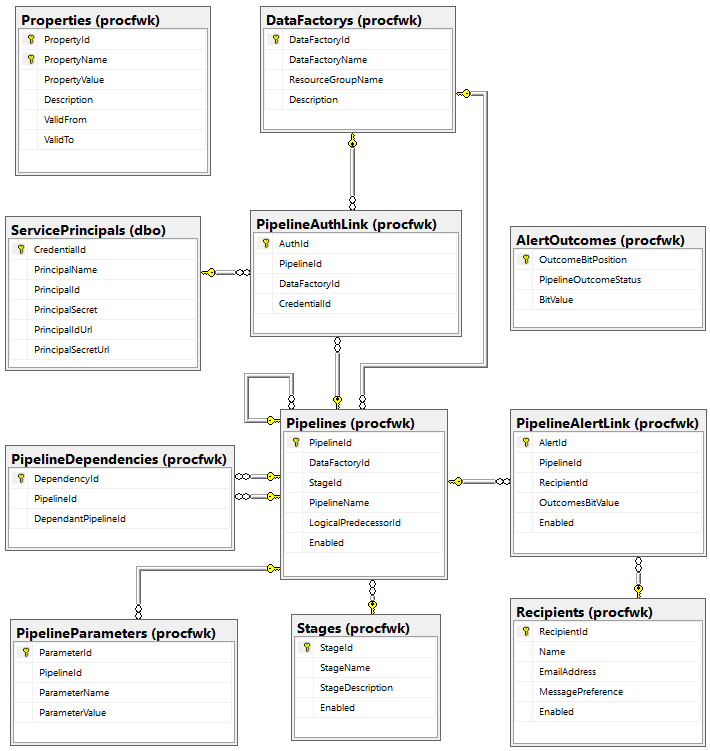
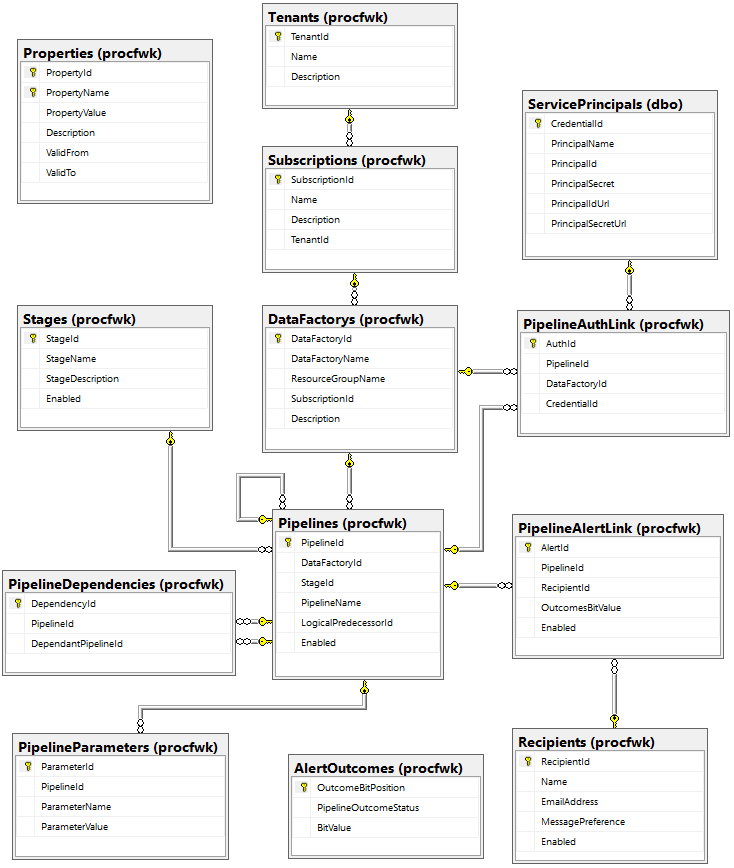
Various updates

Changed region(s): [[0.0, 0.0, 1.0, 1.0], [0.0, 0.0, 0.3099, 0.245], [0.9606, 0.4288, 1.0, 0.49]]

diff --git a/docs/pipelines.md b/docs/pipelines.md
@@ -10,7 +10,7 @@ ___
 __Role:__ Optional level platform setup.
 
 The grandparent level within the ADFprocfwk solution is completely optional. It is expected that here higher level platform operations are performed to make the environment ready before the core framework is triggered. For example, scaling up compute resources.
-## Parent
+## Parent - Framework Executor
 ![Parent Pipeline](/ADF.procfwk/parent.png){:style="float: right;margin-left: 15px;margin-bottom: 10px;"}
 __Role:__ Execution run wrapper and execution stage iterator.
 
@@ -18,19 +18,16 @@ The parent pipeline is primarily used to setup and/or cleanup the next execution
 
 As a secondary function at this level the parent pipeline initiates the first __ForEach__ activity used to _sequentitally_ iterate over [Execution Stages](/ADF.procfwk/executionstages). For each iteration the framework will also check for any workers that may have blocked processing due to pipeline failures.
 
-Finally, the parent is responsible for getting/setting the following metadata to be used in downstream activities:
-* Local Execution ID
-* Tenant ID
-* Subscription ID
+Finally, the parent is responsible for getting/setting of the Local Execution ID which is then used through all downstream pipelines when making updates to the current execution [table](/ADF.procfwk/tables).
 
-## Child
+## Child - Stage Executor
 ![Child Pipeline](/ADF.procfwk/child.png){:style="float: right;margin-left: 15px;margin-bottom: 10px;"}
 __Role:__ Scale out triggering of worker pipelines within the execution stage.
 
 The child pipeline is called once per execution stage and performs the second level __ForEach__ activity, this time used to trigger all worker pipelines within the current execution stage _in parallel_. This [Scale Out Processing](/ADF.procfwk/scaleoutprocessing) is achieved using the default behaviour for the Data Factory activity.
-## Infant
+## Infant - Worker Executor
 ![Infant Pipeline](/ADF.procfwk/infant.png){:style="float: right;margin-left: 15px;margin-bottom: 10px;"}
-__Role:__ Monitoring and reporting the outcome of a single worker pipeline.
+__Role:__ Worker executor, monitor and reporting of the outcome for the single worker pipeline.
 
 Once a worker pipeline has been triggered by the child one infant pipeline per worker is used to handle and monitor its execution. The infant will use an __Until__ activity to iterate over the status of its given worker pipeline waiting until it completes. Once complete the infant will update the metadata with the relevant status information and error details in the event of a worker failure.
 

diff --git a/docs/tables.md b/docs/tables.md
@@ -44,14 +44,15 @@ __Definition:__ For a given execution run this table will be used to handle all 
 ## DataFactorys
 __Schema:__ procfwk
 
-__Definition:__ To support the [decoupling](/ADF.procfwk/workerdecoupling) of worker[pipelines](/ADF.procfwk/pipelines)from the orchestration[pipelines](/ADF.procfwk/pipelines)this table houses information about the Data Factory resources used by the framework when executing workers. It does not need to contain data about the Data Factory where the orchestration [pipelines](/ADF.procfwk/pipelines) are running from.
+__Definition:__ To support the [decoupling](/ADF.procfwk/workerdecoupling) of worker [pipelines](/ADF.procfwk/pipelines) from the orchestration [pipelines](/ADF.procfwk/pipelines) this table houses information about the Data Factory resources used by the framework when executing workers. It does not need to contain data about the Data Factory where the orchestration [pipelines](/ADF.procfwk/pipelines) are running from.
 
 |Id|Attribute|Data Type|Length|Nullable
 |:---:|---|---|:---:|:---:|
 |1|DataFactoryId|int|4|No
 |2|DataFactoryName|nvarchar|400|No
 |3|ResourceGroupName|nvarchar|400|No
-|4|Description|nvarchar|max|Yes
+|4|SubscriptionId|uniqueidentifier|16|No
+|5|Description|nvarchar|max|Yes
 
 
 ## ErrorLog
@@ -218,3 +219,30 @@ __Definition:__ This core table in the framework houses details of all the seque
 |3|StageDescription|varchar|4000|Yes
 |4|Enabled|bit|1|No
 
+## Subscriptions
+__Schema:__ procfwk
+
+__Definition:__ To support the [decoupling](/ADF.procfwk/workerdecoupling) of pipelines and [Data Factory's](/ADF.procfwk/datafactory) this table houses details of Azure Subscriptions that are connected with 1 or many worker Data Factory instances.
+
+At least 1 subscription must exist within the metadata.
+
+|Id|Attribute|Data Type|Length|Nullable
+|:---:|---|---|:---:|:---:|
+|1|SubscriptionId|uniqueidentifier|16|No
+|2|Name|nvarchar|400|No
+|3|Description|nvarchar|max|Yes
+|4|TenantId|uniqueidentifier|16|No
+
+
+## Tenants
+__Schema:__ procfwk
+
+__Definition:__ To support the [decoupling](/ADF.procfwk/workerdecoupling) of pipelines within [Data Factory's](/ADF.procfwk/datafactory) at this final level tenant details are sorted within this table and connected to 1 or many Azure Subscriptions.
+
+At least 1 tenant must exist within the metadata.
+
+|Id|Attribute|Data Type|Length|Nullable
+|:---:|---|---|:---:|:---:|
+|1|TenantId|uniqueidentifier|16|No
+|2|Name|nvarchar|400|No
+|3|Description|nvarchar|max|Yes

diff --git a/docs/contents.md b/docs/contents.md
@@ -2,9 +2,10 @@
 # Framework Components
 
 ## [Data Factory](/ADF.procfwk/datafactory)
-* [Pipelines](/ADF.procfwk/pipelines)
-* [Datasets](/ADF.procfwk/datasets)
 * [Linked Services](/ADF.procfwk/linkedservices)
+* [Datasets](/ADF.procfwk/datasets)
+* [Pipelines](/ADF.procfwk/pipelines)
+* [Activities](/ADF.procfwk/activities)
 
 ## [Synapse](/ADF.procfwk/synapse)
 * [Current Support & Limitations](https://mrpaulandrew.com/2020/06/03/adf-procfwk-and-azure-synapse-orchestrate-preview-and-limitations/)
@@ -30,6 +31,7 @@
 * [Scale Out Processing](/ADF.procfwk/scaleoutprocessing)
 * [Restarting Executions](/ADF.procfwk/frameworkrestart)
 * [Worker SPN Storage (Database vs Azure Key Vault)](/ADF.procfwk/spnhandling)
+* [Cross Tenant & Subscription Execution](/ADF.procfwk/crosstenantexecution)
 * [Worker Pipeline Decoupling](/ADF.procfwk/workerdecoupling)
 * [Worker Pipeline Error Details](/ADF.procfwk/errordetails)
 * [Worker Pipeline Dependency Chains](/ADF.procfwk/dependencychains)
@@ -44,7 +46,7 @@
 * [Testing](/ADF.procfwk/testing)
 
 # Framework Support
-* [Release Details](/ADF.procfwk/releasedetails)
 * [Glossary](/ADF.procfwk/glossary)
 * [Contributors](/ADF.procfwk/contributors)
 * [Resources](/ADF.procfwk/resources)
+* [Release Details (Read Me)](https://github.com/mrpaulandrew/ADF.procfwk/blob/master/README.md)

diff --git a/docs/datafactory.md b/docs/datafactory.md
@@ -3,10 +3,11 @@
 ___
 [<< Contents](/ADF.procfwk/contents) 
 
-* [Pipelines](/ADF.procfwk/pipelines)
-* [Datasets](/ADF.procfwk/datasets)
 * [Linked Services](/ADF.procfwk/linkedservices)
+* [Datasets](/ADF.procfwk/datasets)
+* [Pipelines](/ADF.procfwk/pipelines)
+* [Activities](/ADF.procfwk/activities)
 
 ___
 ![Data Factory Icon](/ADF.procfwk/datafactory.png){:style="float: right;margin-left: 15px;margin-bottom: 10px;"}
-Azure Data Factory is the primary resource within the ADFprocfwk solution for delivering both the orchestration pipelines (Grandparent, Parent, Child, Infant) as well as Worker pipelines created outside of the solution.
+Azure Data Factory is the primary resource within the ADFprocfwk solution for delivering both the execution of orchestration [pipelines](/ADF.procfwk/pipelines) (Grandparent, Parent, Child, Infant) used to deliver this framework as well as Worker pipelines created outside of the processing solution.

diff --git a/docs/properties.md b/docs/properties.md
@@ -11,22 +11,6 @@ The properties table within the metadata database controls configuration to supp
 ## Properties:
 ___
 
-### TenantId	
-
-__Example Value:__ 1234-1234-1234-1234-1234	
-
-__Role:__ Used to provide authentication throughout the framework execution.
-
-___
-
-### SubscriptionId	
-
-__Example Value:__ 1234-1234-1234-1234-1234	
-
-__Role:__ Used to provide authentication throughout the framework execution.
-
-___
-
 ### OverideRestart	
 
 __Default Value:__ 0	
